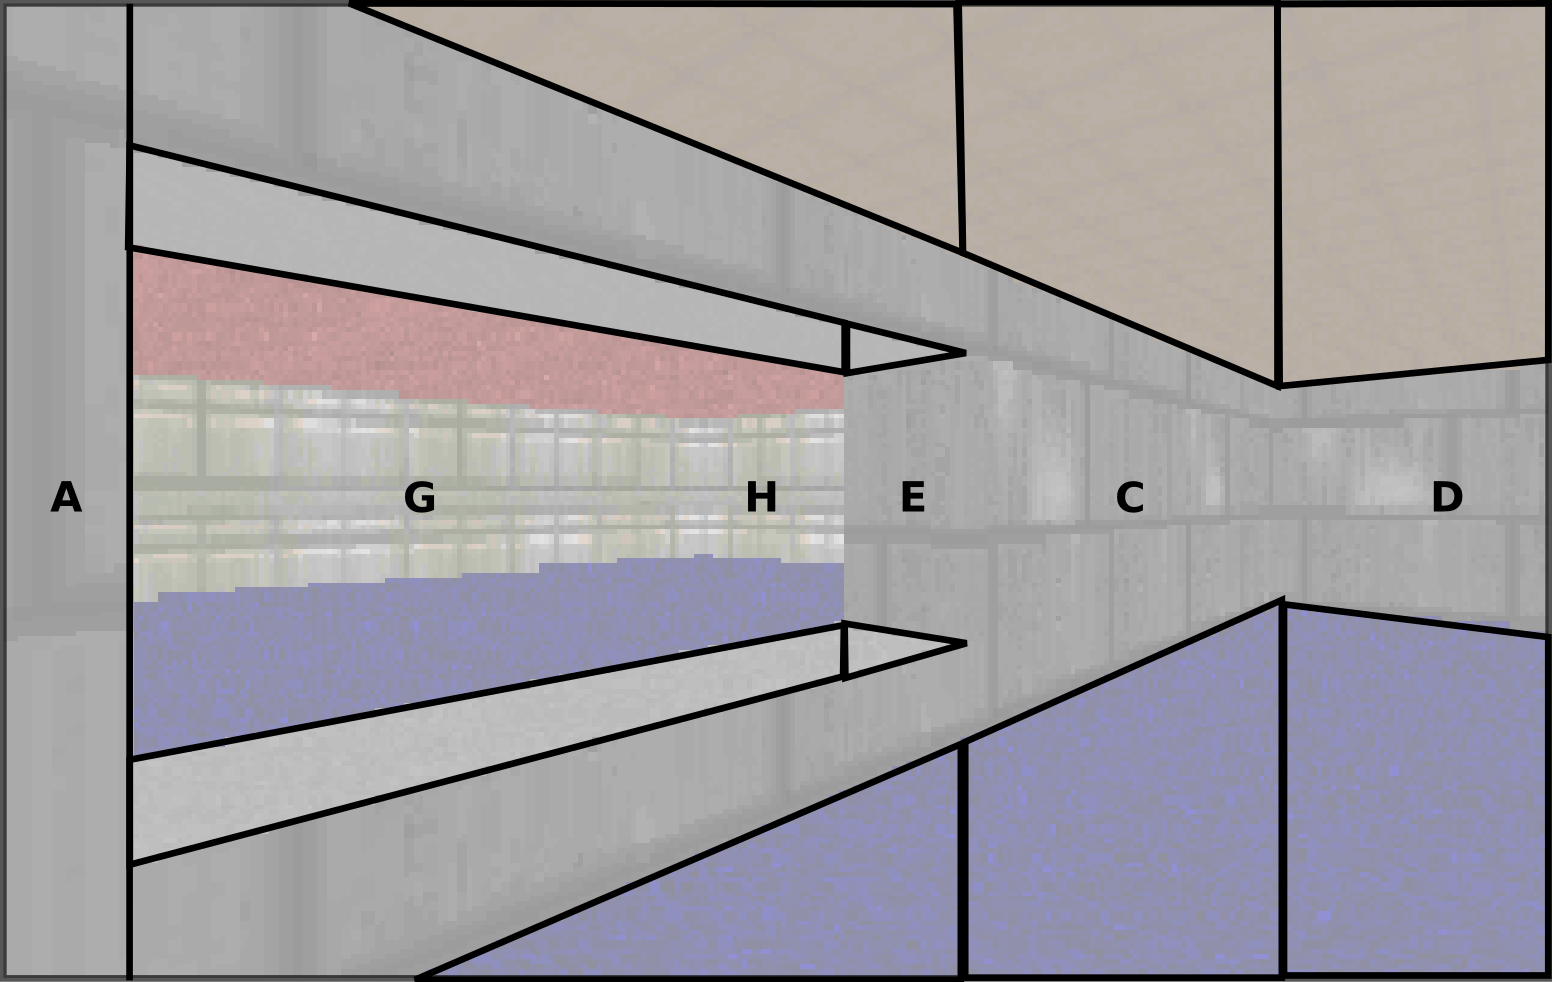
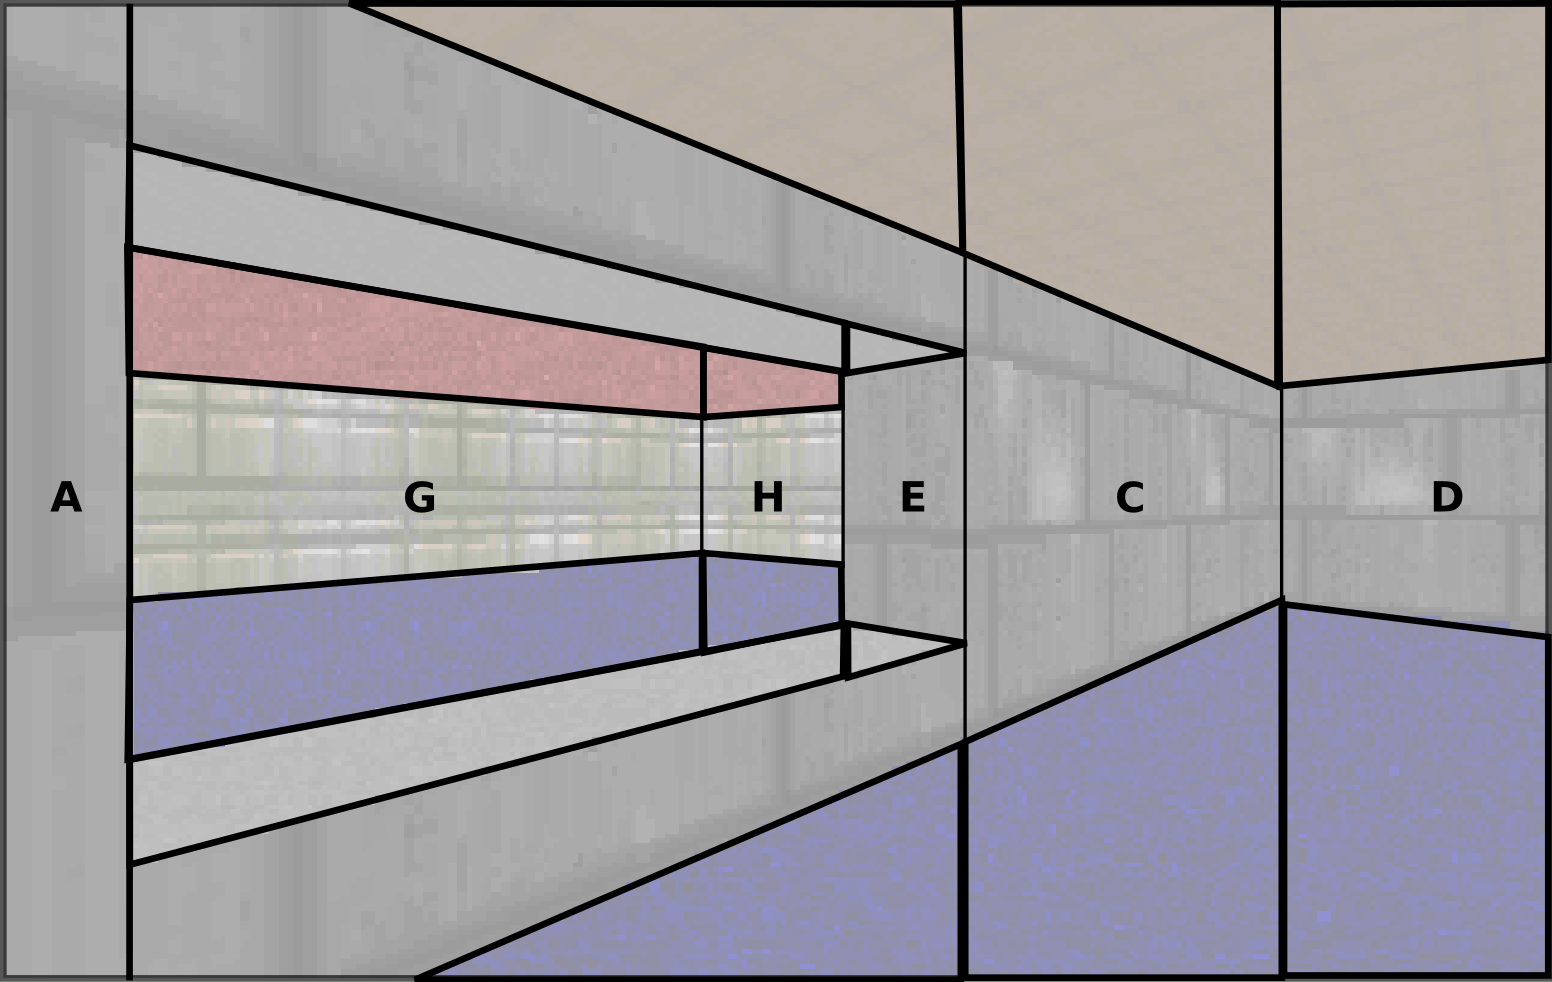
working on visplanes

diff --git a/src/software_3drenderer.tex b/src/software_3drenderer.tex
@@ -361,9 +361,39 @@ Above, the final frame. Below, the current state of the frame. Flats are colored
 
 \trivia{Visplane rendition is deferred. They had to be stored while walls were rendered. 664 bytes per visplane (and 128 visplanes) represented a significant amount (84,992 bytes) for a game limited to 4MiB.}\\
 \par
-Let's take the example of the small room with a window again but let's focus instead on how visplanes were generated.\\
+Visplan represent the vertical "gaps" between wall and screen border or between walls and portals. 
+To understand better how they are generated, let's take and example and go back to the simple room we just studied but this time we will focus on how the \cw{visplanes} array is populated.\\
 \par
-\fullimage{simple_room_visplanes}
+
+\begin{wrapfigure}[16]{r}{0.45\textwidth}
+\centering
+\includegraphics[width=.45\textwidth]{drawings/vcclip_map.pdf}
+\end{wrapfigure}
+Like in the previous example, segments are rendered near to far in the following order: \cw{A}, \cw{B}, \cw{C}, \cw{D}, \cw{B}, \cw{E}, \cw{F}, \cw{B}, \cw{G}, and \cw{H}.
+When wall \cw{A} is rendered, it is clipped horizontally and vertically. Since it use all the vertical space, no visplane is created.\\
+\par
+ Things get slightly more interesting when walls \cw{C} and \cw{D} are rendered. Since they do not occupy the full height (there is a gap between the screen and the top/bottom edge of the walls), two visplaces \cw{1}, \cw{2}, \cw{3}, and \cw{4} are created and stored in the visplane array.\\
+ \par
+  Likewise when portal \cw{C} is rendered, there are gaps above its upper texture and below its lower texture, so two visplanes additional visplanes (\cw{5} and \cw{6}) are added.\\
+\par
+Wall \cw{E} is an other new case. The gap above and below are not between a wall and the screen but between  \cw{E} and the portal \cw{C} upper and lower parts. To detect the previous boundaries, the vertical occlusion array seen previously is used.\\
+\par
+Portal \cw{F} is yet and other special case. Since from this point of view it is connecting to a sector with higher ceiling, connecting to a sector with lower floor and has no middle texture, nothing is rendered. Yet the coordinates of its middle part are still generated in order to generate visplanes \cw{7} and  \cw{8}.\\
+\par
+Fron this point pn, this is the same process over and over again. Wall \cw{G} rendition generates visplanes \cw{9} and  \cw{10} and Wall \cw{H} rendition generates visplanes \cw{11} and  \cw{12}
+\pagebreak
+
+
+
+
+
+
+
+
+\fullimage{simple_room_visplanes}\\
+Below, the engine was modified to draw walls and flats in plain color permit to confirm the drawing above. Hu Ho, wait a minute, this is not what was expected. Something is fishy here.\\  
+\fullimage{small_room_visplanes.png}
+\pagebreak
 
  All walls are correct but there are huge gaps in between which need to be filled. This is where the visplanes are used. How floors and ceilings are drawn is the most difficult part to understand. The puzzled command in the source code "Now what is a visplane, anyway?" tells a lot about the mystery surrounding them.\\
 \par
